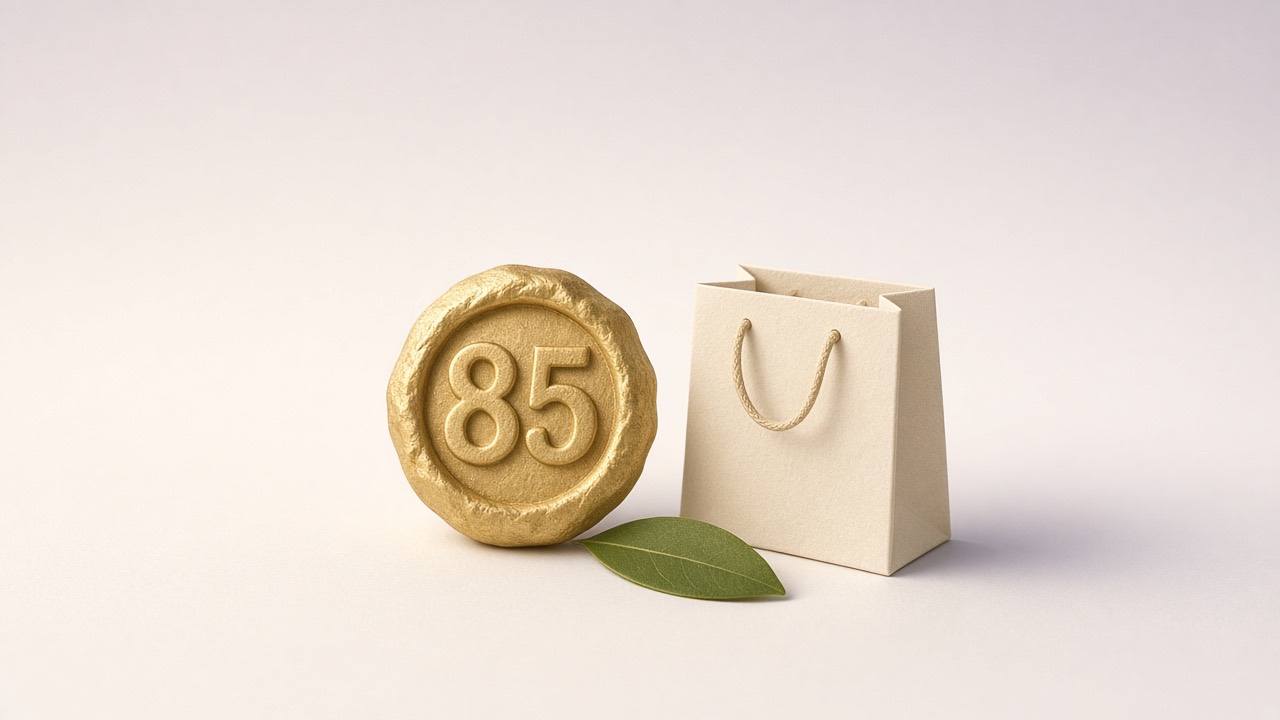
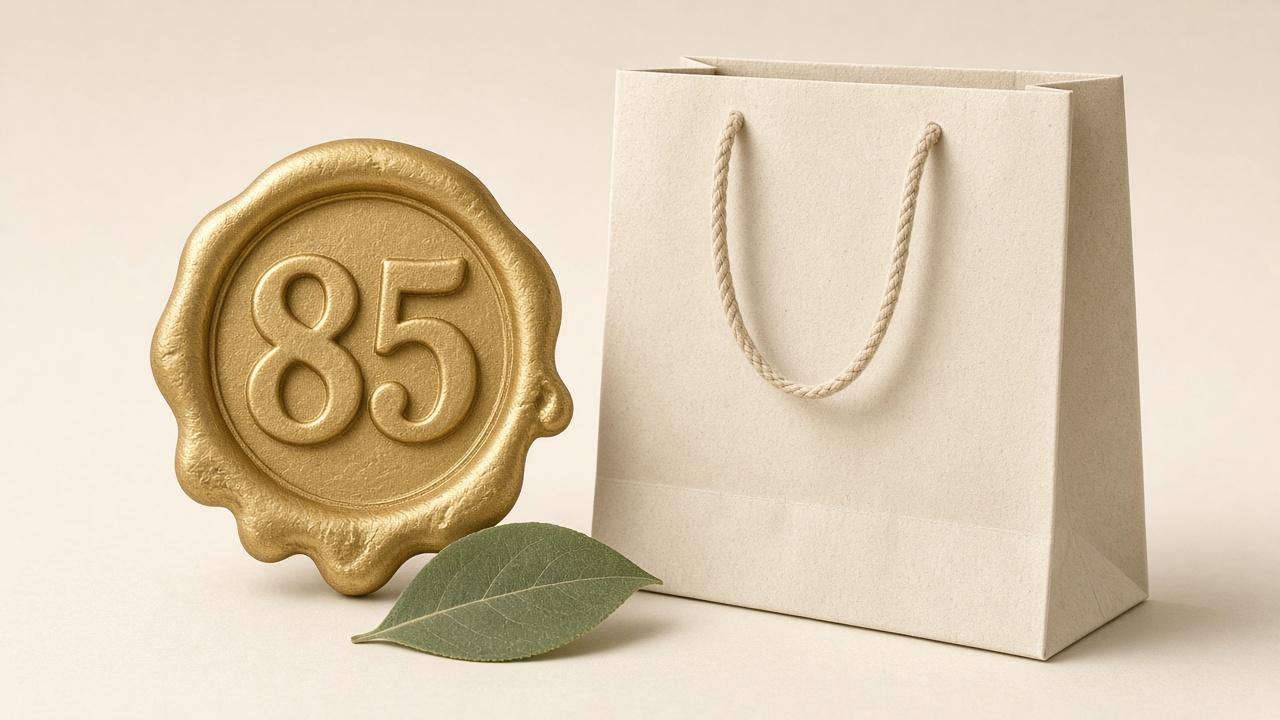
注册身份画面改成主体更大的静物，点选时过渡能看清。

diff --git a/灵祺达人履约管理后台/src/pages/RegisterPage.tsx b/灵祺达人履约管理后台/src/pages/RegisterPage.tsx
@@ -109,7 +109,7 @@ export default function RegisterPage() {
     <div className="reg-page">
       <form onSubmit={onSubmit} className="reg-card">
         <div className={`reg-stage reg-stage--${workIdentity}`} key={sceneKey}>
-          <img className="reg-stage__img" src={`/register-identity/${scene.file}`} alt="" />
+          <img className="reg-stage__img" src={`/register-identity/${scene.file}?v=20261003d`} alt="" />
           <div className="reg-stage__flash" />
           <div className="reg-stage__bars" />
         </div>

diff --git a/灵祺达人履约管理后台/src/pages/RegisterPage.css b/灵祺达人履约管理后台/src/pages/RegisterPage.css
@@ -21,7 +21,7 @@
 
 .reg-stage {
   position: relative;
-  height: 196px;
+  height: 220px;
   border-radius: 20px;
   overflow: hidden;
   background: #f3ece2;
@@ -31,6 +31,7 @@
   width: 100%;
   height: 100%;
   object-fit: cover;
+  object-position: center;
   display: block;
 }
 
@@ -45,7 +46,7 @@
 
 .reg-stage__line {
   margin: 10px 4px 0;
-  color: #44403c;
+  color: #1c1917;
   font-size: 14px;
   font-weight: 600;
 }
